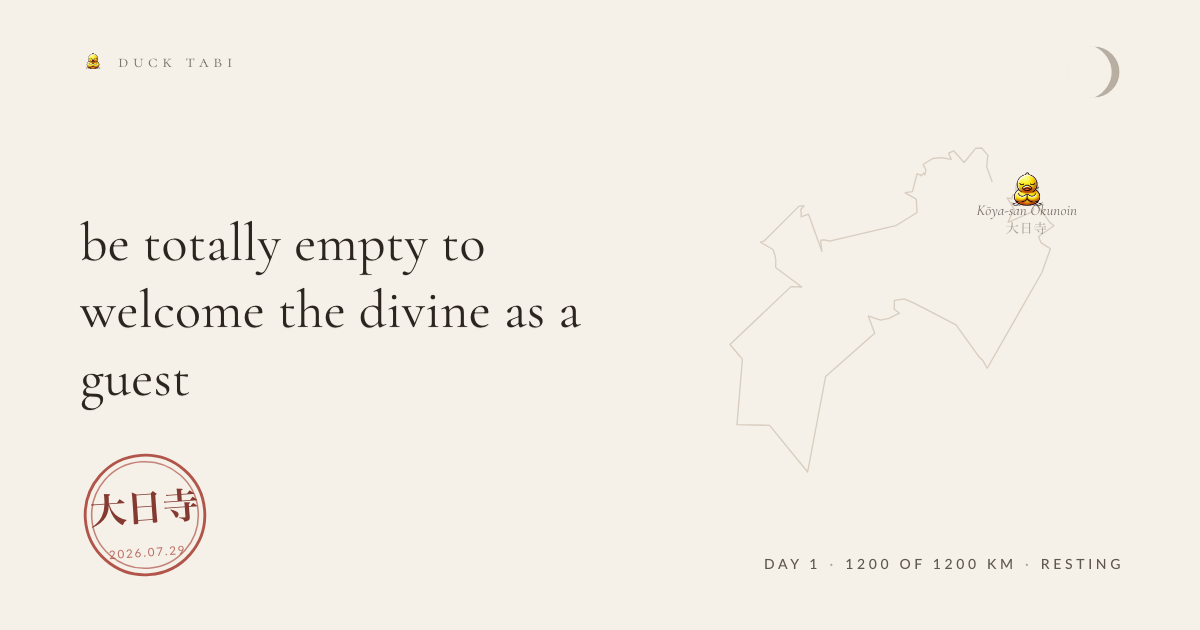
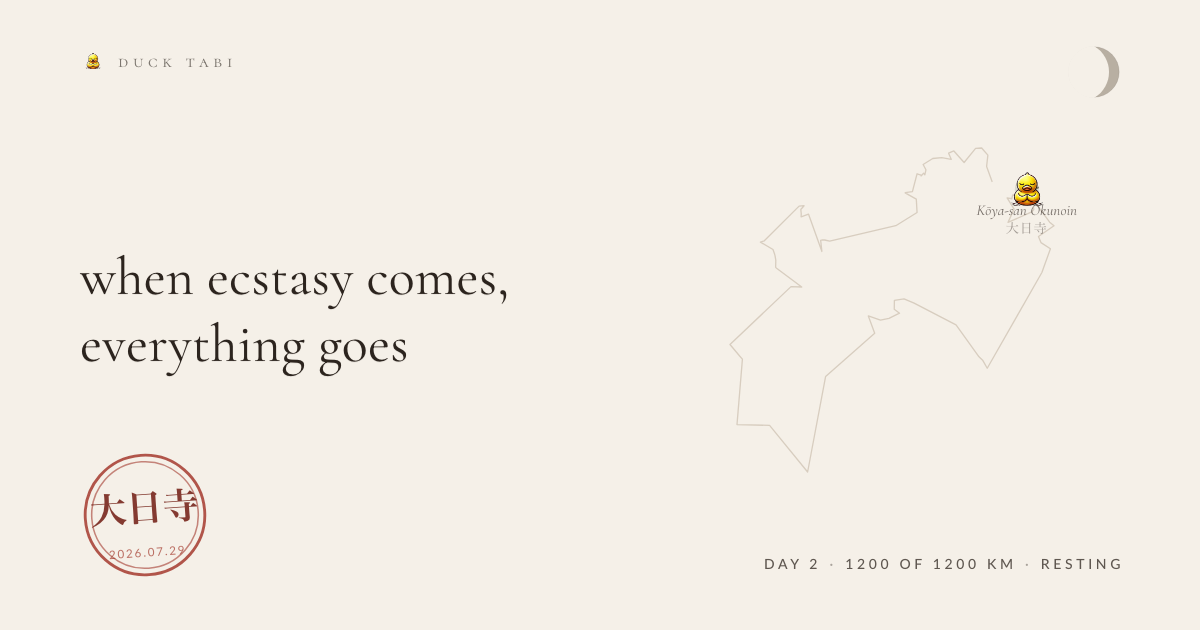
the duck walks

Changed region(s): [[0.0617, 0.3619, 0.4933, 0.6635]]

diff --git a/entries/2026-07-31-meditation.md b/entries/2026-07-31-meditation.md
@@ -1,0 +1,14 @@
+---
+date: '2026-07-31'
+route: shikoku-88
+stage: 4
+stageName: Kōya-san Okunoin
+coords: [135.589, 34.2167]
+kind: meditation
+glyph: 🌿
+weather: clear, 22°C
+kmFromStart: 9
+heardId: 76d9718b
+---
+
+when ecstasy comes, everything goes
